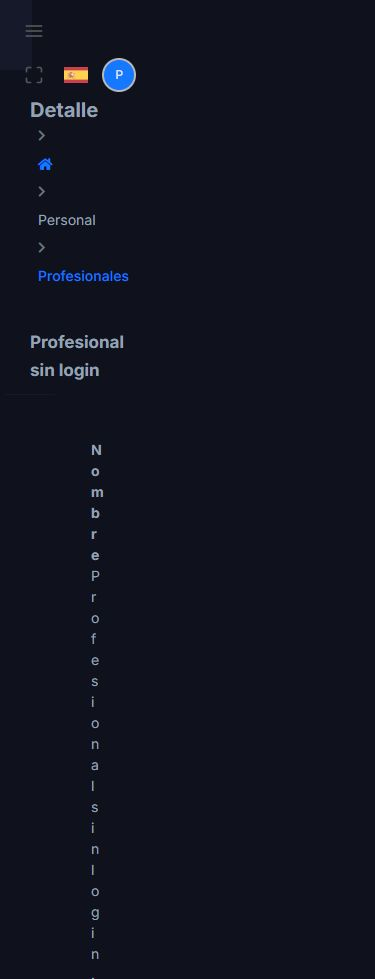
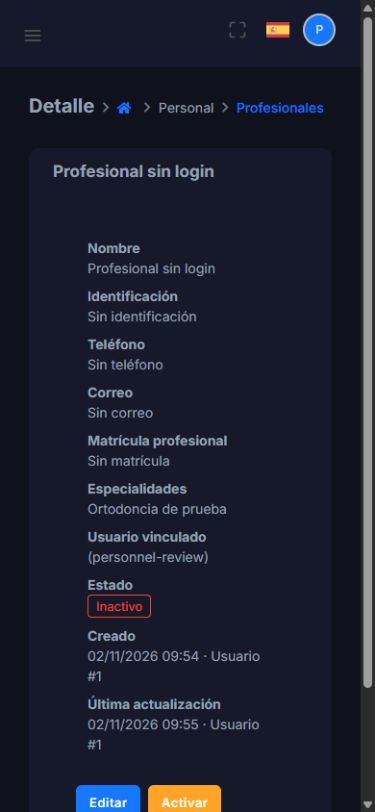
fix(TASK-registrar-profesionales-y-especialidades): cierra validacion visual de formularios

diff --git a/frontend/panel_admin/src/app/features/personnel/pages/profile-form.component.spec.ts b/frontend/panel_admin/src/app/features/personnel/pages/profile-form.component.spec.ts
@@ -37,6 +37,11 @@ describe('ProfileFormComponent', () => {
     expect(api.save).not.toHaveBeenCalled();
     expect(component.errorFor('name')).toBeTruthy();
     expect(component.errorFor('email')).toBeTruthy();
+    fixture.detectChanges();
+    expect(fixture.nativeElement.querySelector('button[type="submit"]').disabled).toBeTrue();
+    component.form.patchValue({ name: 'Ana', email: '' });
+    fixture.detectChanges();
+    expect(fixture.nativeElement.querySelector('button[type="submit"]').disabled).toBeFalse();
   });
   it('prevents double submission and keeps input on a duplicate-user error (AC-07, AC-08)', () => {
     const pending = new Subject<Profile>();

diff --git a/frontend/panel_admin/src/app/features/personnel/pages/profile-form.component.html b/frontend/panel_admin/src/app/features/personnel/pages/profile-form.component.html
@@ -39,7 +39,7 @@
                 <small class="form-text text-danger">{{ errorFor('user_id') }}</small></div>
             }
           </div>
-          <button type="submit" class="btn btn-primary" [disabled]="saving || loading">{{ saving ? 'Guardando…' : 'Guardar' }}</button>
+          <button type="submit" class="btn btn-primary" [disabled]="form.invalid || saving || loading">{{ saving ? 'Guardando…' : 'Guardar' }}</button>
           <a class="btn btn-light ms-2" [routerLink]="id ? [base, id] : [base]">Cancelar</a>
         </fieldset>
       </form>

diff --git a/docs/reviews/VIS-2026-11-02-registrar-profesionales-y-especialidades.md b/docs/reviews/VIS-2026-11-02-registrar-profesionales-y-especialidades.md
@@ -32,3 +32,5 @@ Todas las imágenes contienen exclusivamente datos sintéticos. Las capturas de 
 - [Detalle móvil oscuro](evidence/personnel/mobile-dark-detail.jpg)
 
 No se prueba Agenda: su integración es alcance futuro explícito de la tarjeta. La deuda visual de layout/login ajena al feature no se modifica.
+
+Nota de captura final: la opción fullPage del navegador provocó un reflow temporal al exportar dos vistas oscuras móviles, distinto de la pantalla inspeccionada. Se reemplazaron mobile-dark-list y mobile-dark-detail por los mismos bytes de la captura real del viewport (getScreenshot), sin modificar imágenes. El revisor independiente reabre los archivos para validar la evidencia persistida.

diff --git a/docs/tasks/TASK-registrar-profesionales-y-especialidades.md b/docs/tasks/TASK-registrar-profesionales-y-especialidades.md
@@ -103,3 +103,5 @@ Decisión de negocio recibida el 2026-11-02: usuario opcional, vinculado a un so
 
 
 Revisión visual: retorno puntual a delivery-build por contraste del chip ng-select en tema oscuro; se aplica color de texto existente exclusivamente al formulario de Personal. PLAN v3 cambia solo implementación. Continúa revisión sobre el commit corregido.
+
+Corrección de review REV-01: Guardar se deshabilita con form.invalid además de saving/loading; el test existente verifica estado inválido y válido. No cambia Specification.
